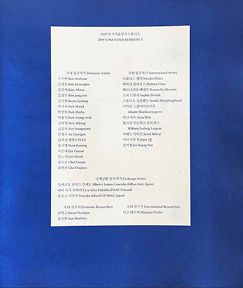
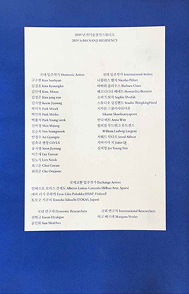
refine publications

diff --git a/publications.html b/publications.html
@@ -87,7 +87,7 @@
                         <div class="fw-light">- 2019</div>
                     </div>
                 </div>
-                <div id="pub-5" class="publication-item p-bottom-2">
+                <div id="pub-5" class="publication-item">
                     <div class="pub-item-img-wrapper">
                         <img src="assets/images/publications/publication-4.jpg" alt="" loading="lazy">
                     </div>
@@ -96,6 +96,7 @@
                         <div class="fw-light">- North to North Art</div>
                     </div>
                 </div>
+                <div class="publication-item m-bottom-2"> </div>
             </div>
         </div>
     </section>

diff --git a/app.css b/app.css
@@ -513,6 +513,11 @@ a {
     max-width: 200px;
   }
 
+  .pub-item-img-wrapper img {
+    width: 20vh;
+    aspect-ratio: 3/4;
+  }
+
   .publication-item {
     position: static;
     overflow: visible;
@@ -543,6 +548,11 @@ a {
 
   .pub-item-title {
     font-size: var(--fs-medium);
+  }
+
+  .pub-item-img-wrapper img {
+    width: 28vh;
+    aspect-ratio: 3/4;
   }
   
 }
